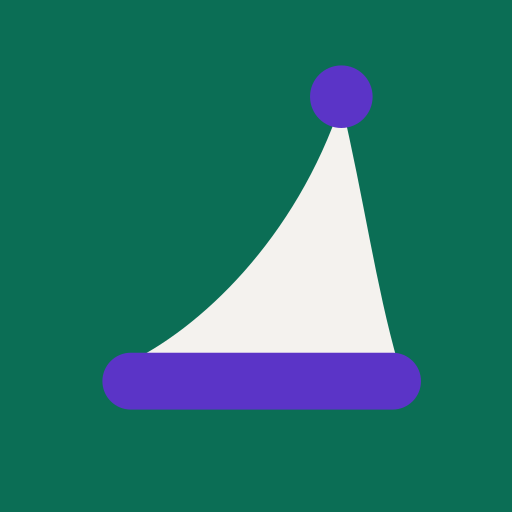
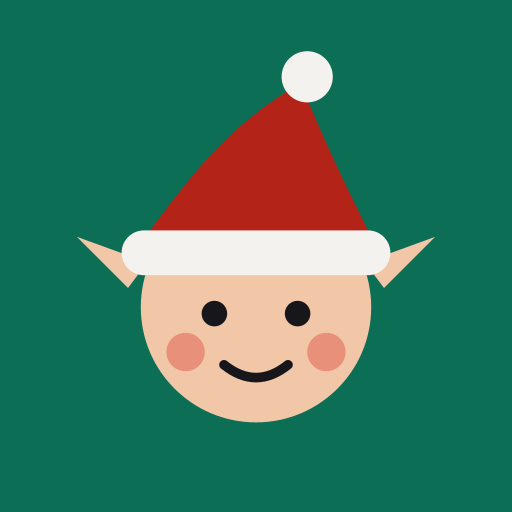
Turnos: logotipo con cara de elfo
Claude-Session: https://claude.ai/code/session_01LMH5nXcAY8SWjNwdXbY83o

Changed region(s): [[0.1562, 0.0938, 0.8438, 0.8438]]

diff --git a/turnos/sw.js b/turnos/sw.js
@@ -1,5 +1,5 @@
 // Guarda Turnos en el móvil para que funcione sin internet.
-const VERSION = 'turnos-v1';
+const VERSION = 'turnos-v2';
 const FILES = ['./', './index.html', './manifest.webmanifest', './icon-180.png', './icon-512.png'];
 
 self.addEventListener('install', e => {
